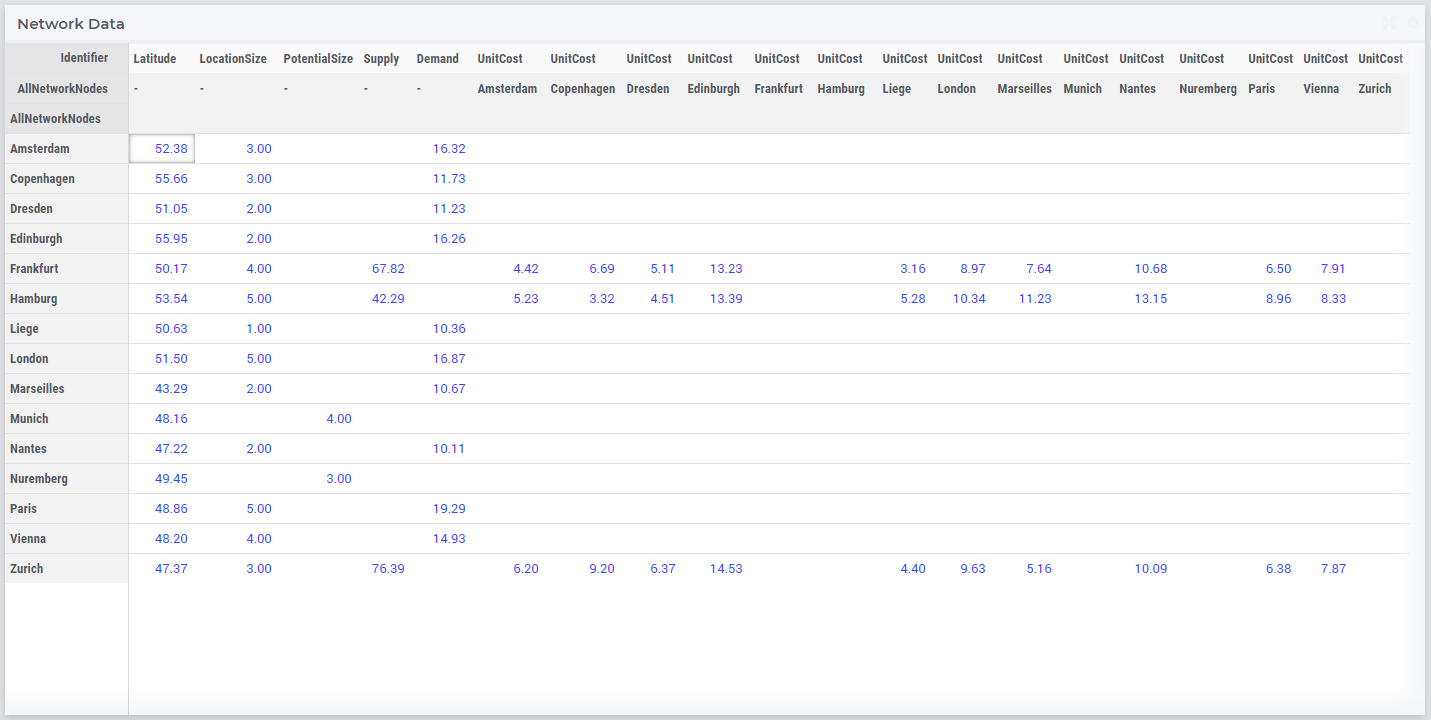
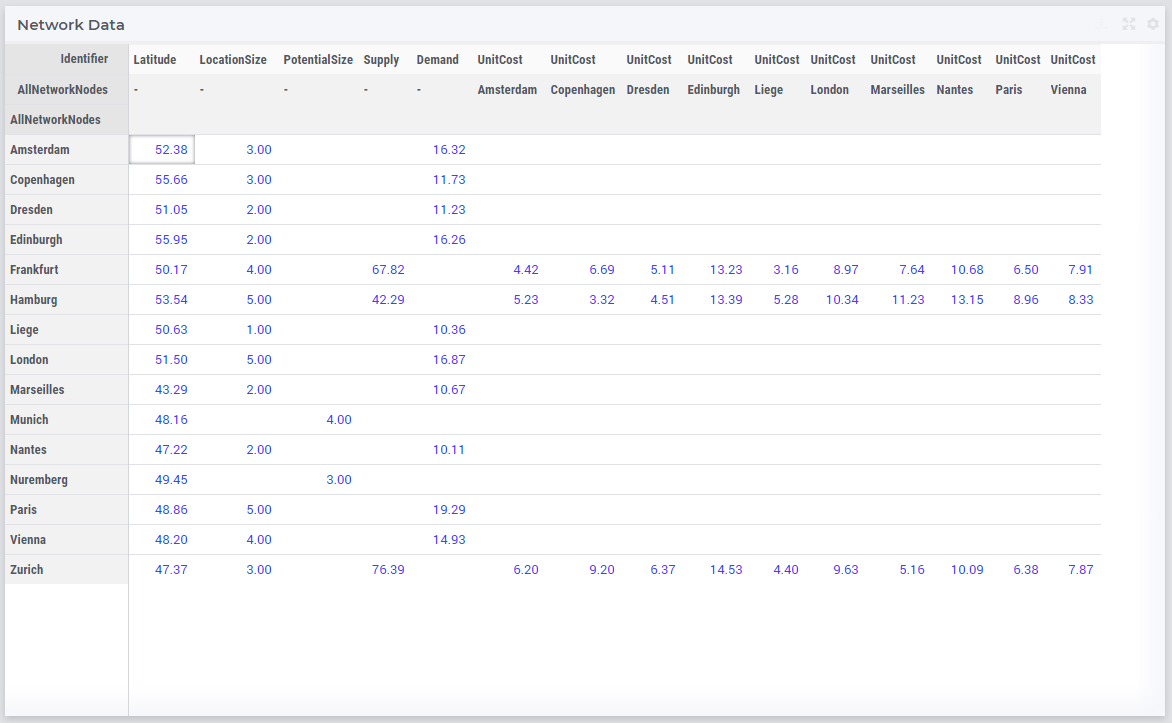
adds

diff --git a/webui/widget-options.rst b/webui/widget-options.rst
@@ -328,7 +328,7 @@ by expanding each sub-index l, s, f, or c to one of the super-indexes n or n_to 
 .. image:: images/CubeDomain_Table3_Settings.png
     :align: center
 
-In this case, the layout of the data in the table widget looks like in the following picture (note that UnitCost is shown dense as its diplay domain is set to 1):
+In this case, the layout of the data in the table widget looks like in the following picture:
  
 .. image:: images/CubeDomain_Table3_View1.png
     :align: center
